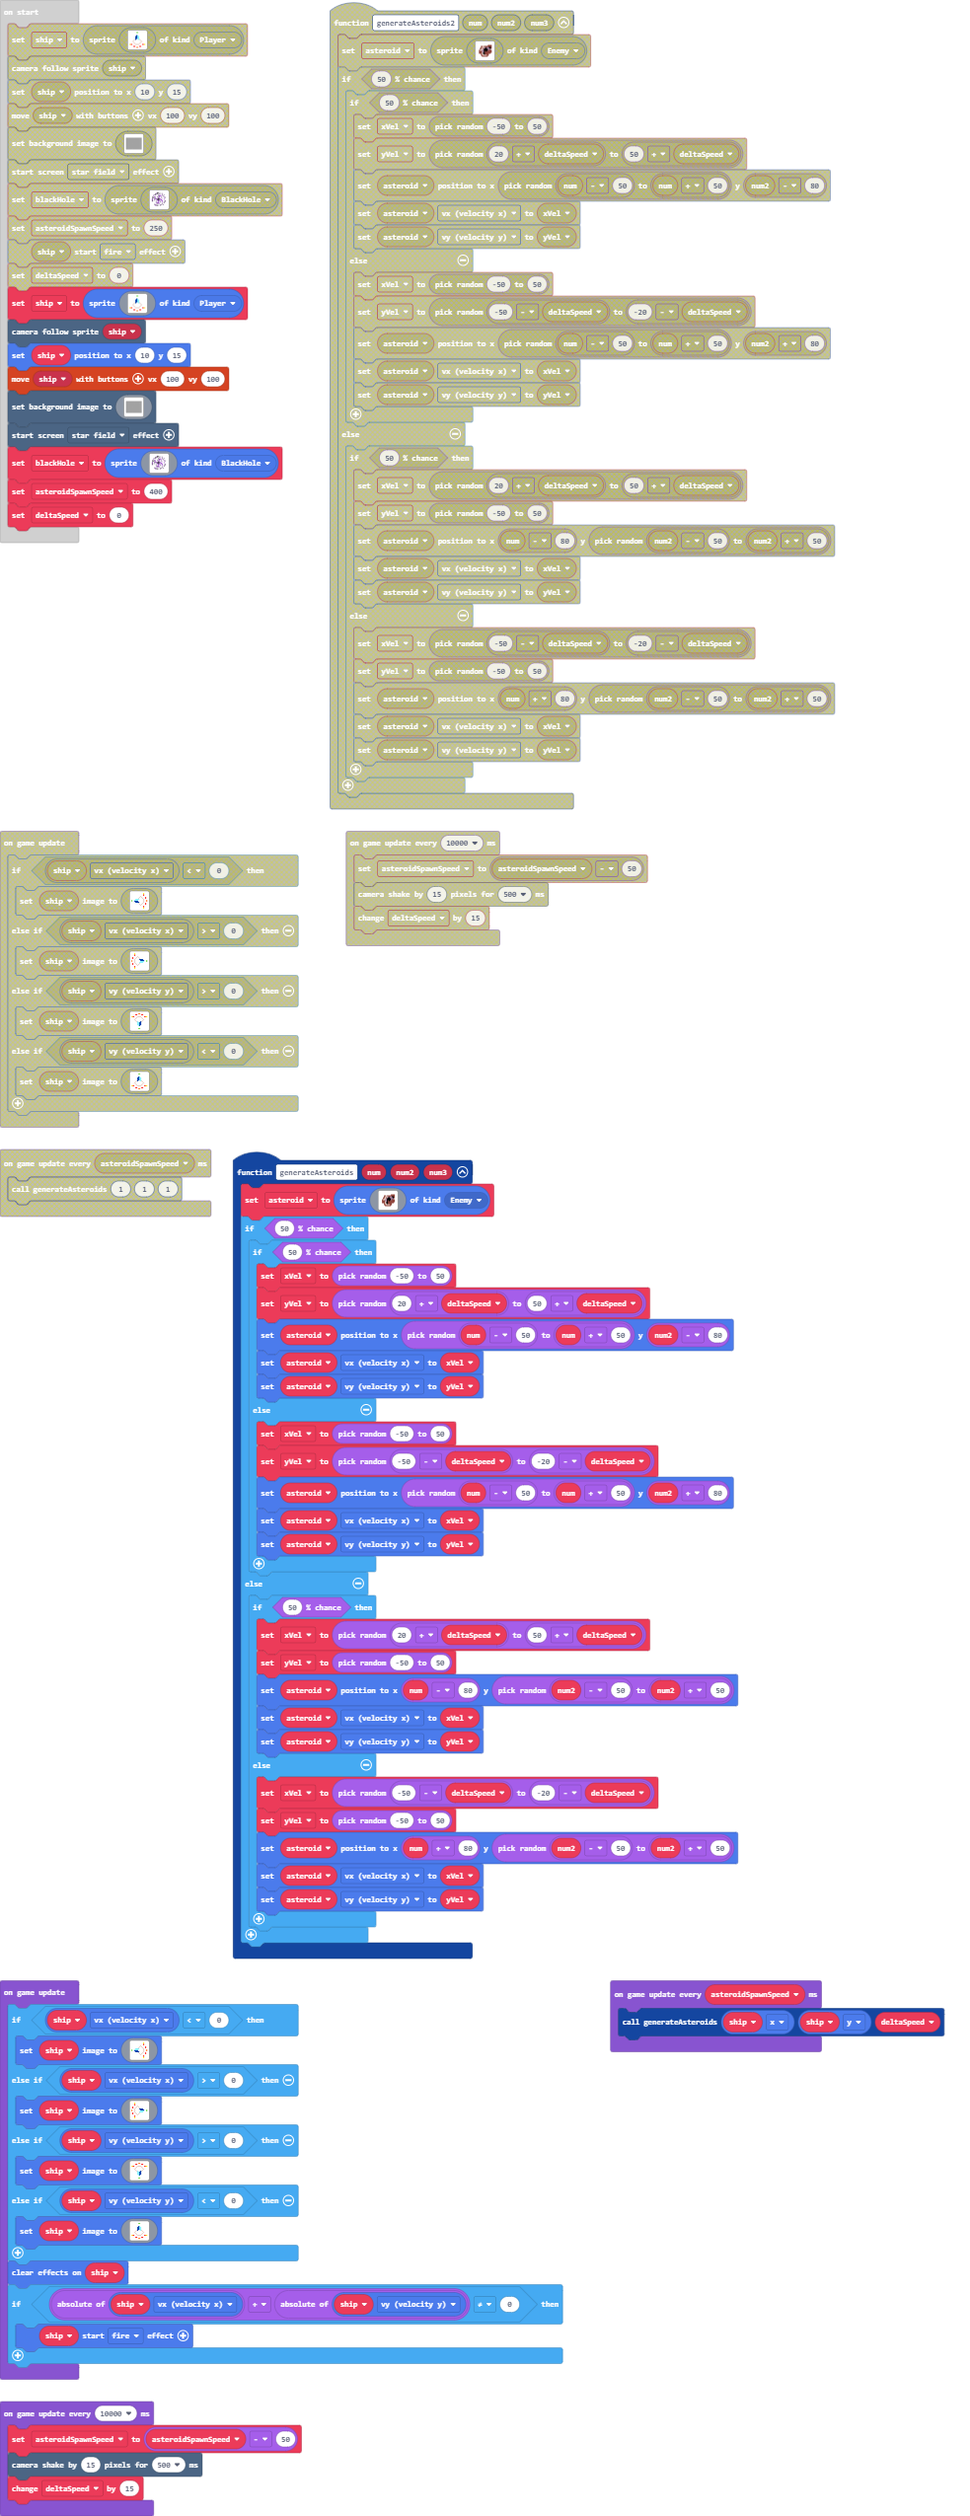
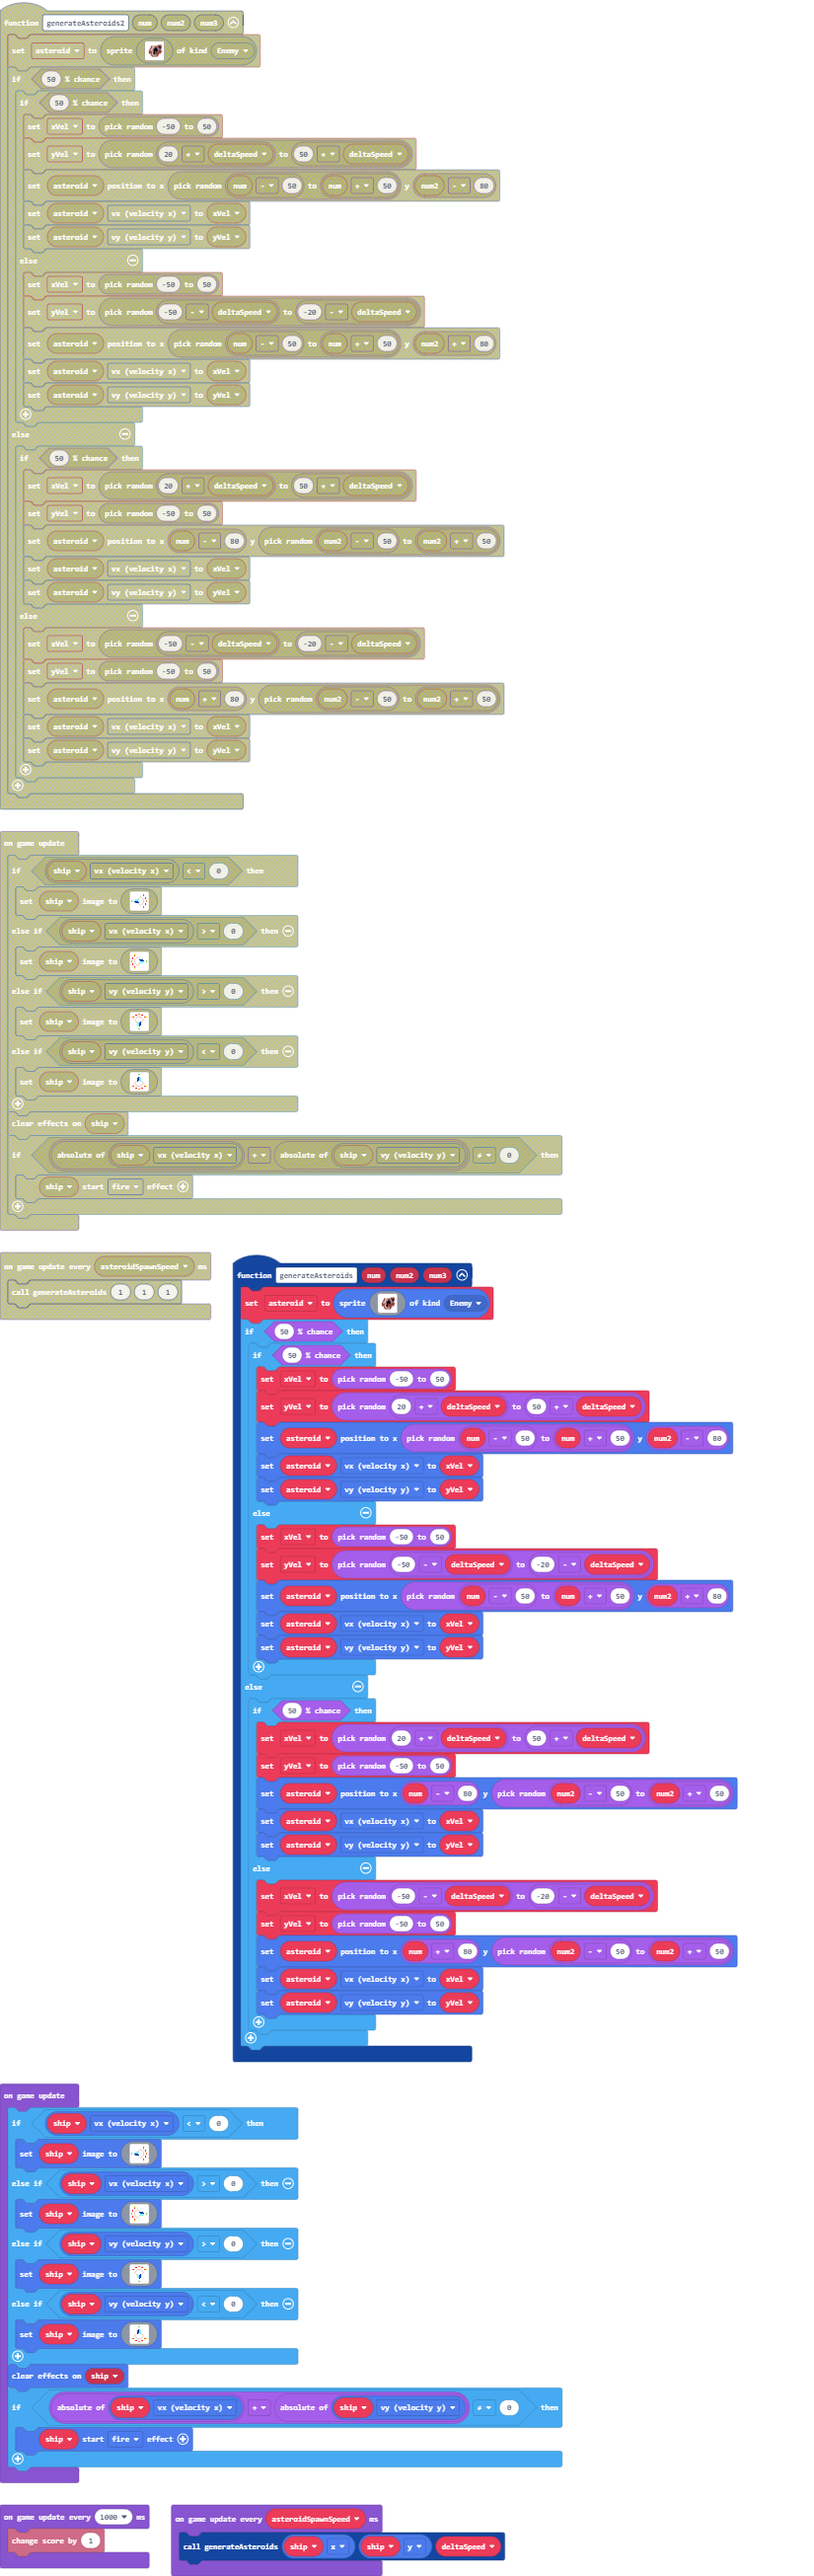
Update main.blocks, main.ts

diff --git a/main.ts b/main.ts
@@ -329,6 +329,9 @@ game.onUpdate(function () {
         ship.startEffect(effects.fire)
     }
 })
+game.onUpdateInterval(1000, function () {
+    info.changeScoreBy(1)
+})
 game.onUpdateInterval(asteroidSpawnSpeed, function () {
     generateAsteroids(ship.x, ship.y, deltaSpeed)
 })
